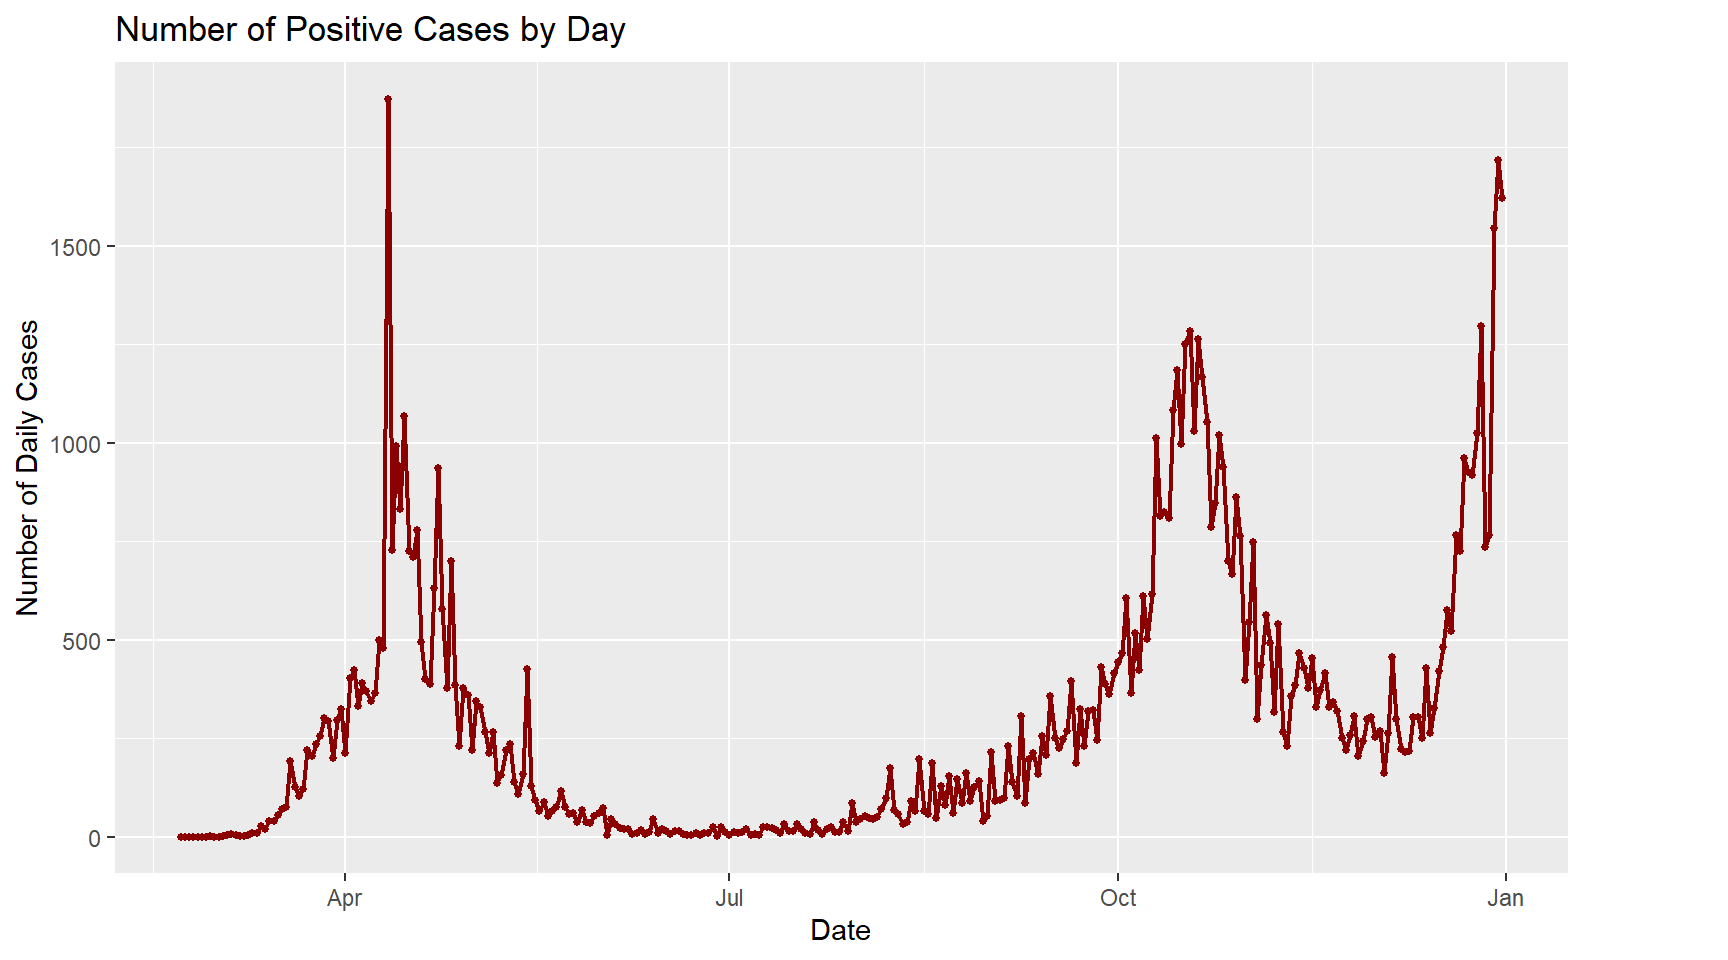
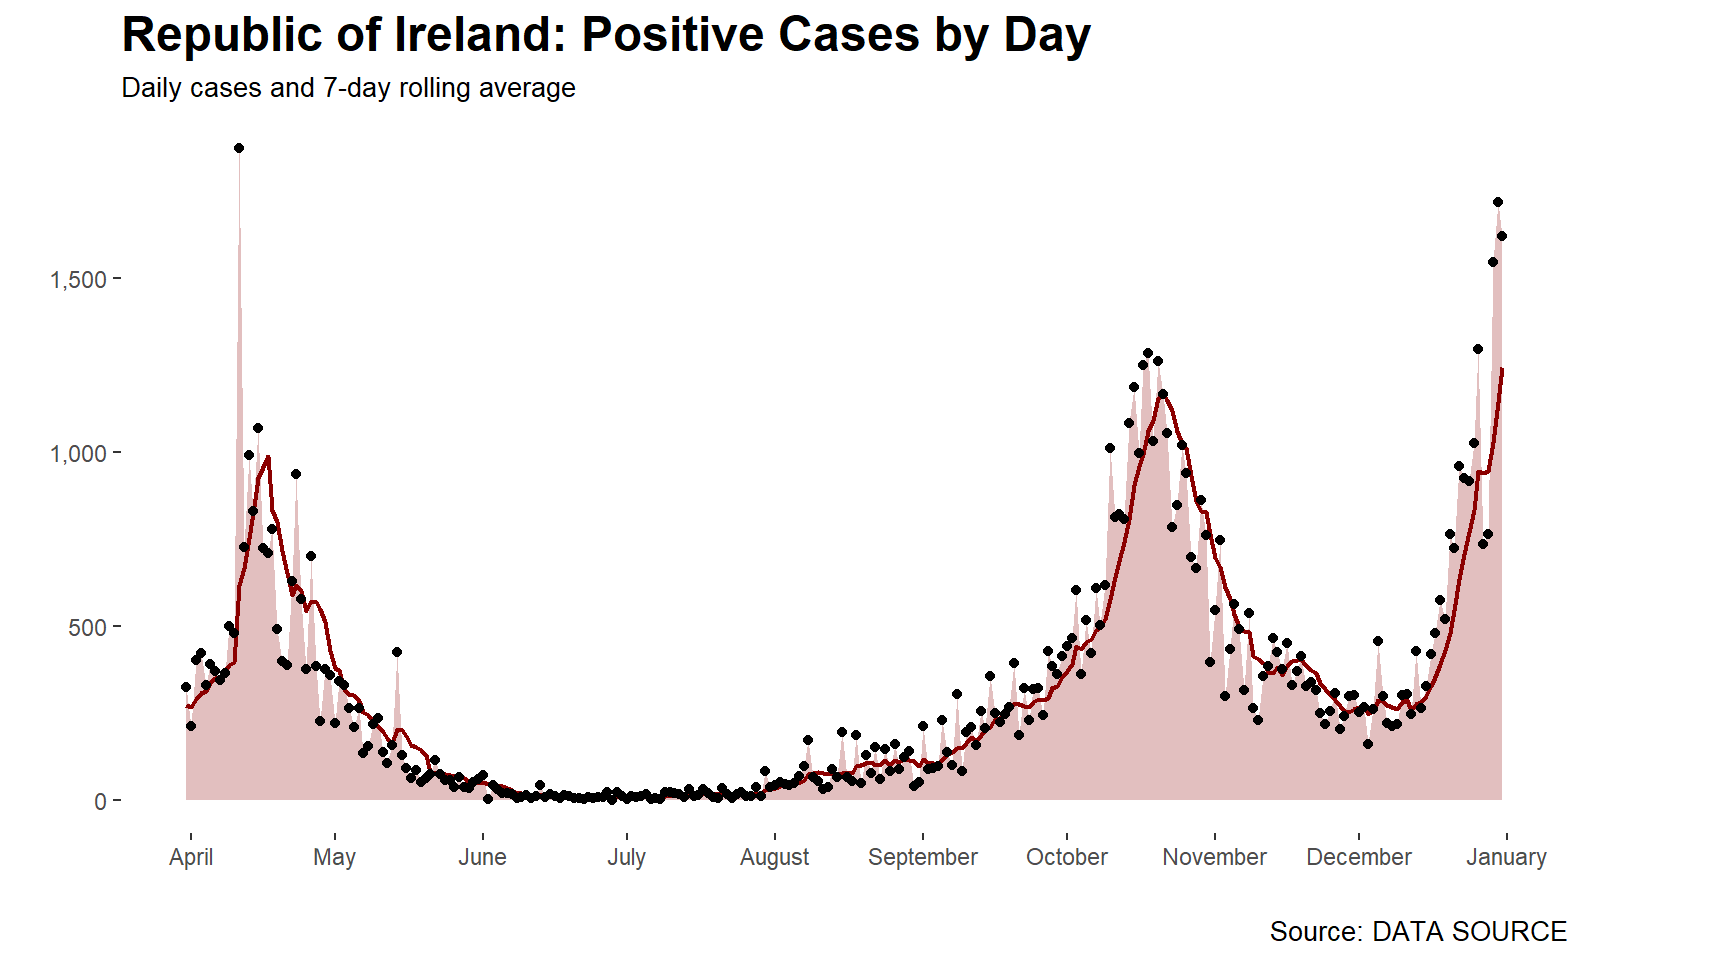
Updated births post

diff --git a/posts/2021-01-01-covid-animations-r/index.html b/posts/2021-01-01-covid-animations-r/index.html
@@ -88,7 +88,7 @@
 <p>R provides a very flexible way to create animated plots using a combination of the <code>ggplot2</code> and the <code>gganimate</code> package.</p>
 <p>The following animated plots leverage data from the <a href="https://covid19datahub.io/index.html">Covid19 Data Hub</a> to created animated visualisations of the Covid-19 incidence rates in Ireland.</p>
 <p>The first plots visualise the time series for the number of cases in the Republic if Ireland over 2020 while the second tracks the 7 day incidence rate on a per county basis.</p>
-<p><img src="../../post/2021-01-01-covid-animations-r/line_plot_animation.gif" /></p>
+<p><img src="images/line_plot_animation.gif" width="800" /></p>
 <p><img src="../../post/2021-01-01-covid-animations-r/county_barplot_animation.gif" /></p>
 <p><img src="../../post/2021-01-01-covid-animations-r/choropleth-ireland-covid-counties.gif" /></p>
 <p>Although the code to generate the plots looks complex, it’s actually relatively straight forward to animate them - the real work is in summarizing the data and laying out the plots in the correct format.</p>
@@ -119,7 +119,7 @@ library(zoo)</code></pre>
 <p>Once the required data fields have been added, I have removed unnecessary fields from the data source. This is an optional step, but having a smaller dataframe will decrease the processing time required to create the animated plot.</p>
 <pre class="r"><code>ire_agg &lt;- covid19(country=&#39;IE&#39;,
                         level=1,
-                        start=&#39;2020-02-22&#39;,
+                        start=&#39;2020-03-01&#39;,
                         end=&#39;2020-12-31&#39;,
                         raw=FALSE,
                         verbose=FALSE)
@@ -154,14 +154,24 @@ drops &lt;- c(&quot;vaccines&quot;,&quot;tests&quot;, &quot;recovered&quot;, &qu
 ire_agg &lt;- ire_agg[ , !(names(ire_agg) %in% drops)]</code></pre>
 <p>Once, we have created the base data, the following code produces the plot that will form the basis of the visualisation:</p>
 <pre class="r"><code>line_plot &lt;- ire_agg %&gt;%
-              ggplot(aes(x=date, y=confirmed_delta)) +
-              geom_line(color=&#39;red4&#39;, size=0.8) +
-              geom_point(size = 1, color=&#39;red4&#39;) + 
+             filter(date &gt;= &#39;2020-03-31&#39;) %&gt;%
+              ggplot() +
+              geom_line(aes(x=date, y=confirmed_7day), color=&#39;red4&#39;, size=0.8) +
+              geom_area(aes(x = date, y = confirmed_delta), fill = &quot;red4&quot;, alpha=0.25) +    
+              geom_point(aes(x=date, y=confirmed_delta), size = 1.5, color=&#39;black&#39;) + 
               theme(legend.position=&quot;bottom&quot;, plot.margin=margin(5.5, 60, 5.5, 5.5)) + #increasing margin
               scale_color_viridis_d(name=&quot;Method of Discovery&quot;) +
-              labs(title = &quot;Number of Positive Cases by Day&quot;) +
-              ylab(&quot;Number of Daily Cases&quot;) +
-              xlab(&quot;Date&quot;)
+              scale_y_continuous(labels = scales::comma) + 
+              labs(title = &quot;Republic of Ireland: Positive Cases by Day&quot;,
+                   x = &quot;&quot;,
+                   y = &quot;&quot;,
+                   subtitle = &quot;Daily cases and 7-day rolling average&quot;,
+                   caption = &quot;Source: DATA SOURCE&quot;) +
+              scale_x_date(date_breaks=&quot;1 month&quot;, date_labels=&#39;%B&#39;) +
+              theme(plot.title = element_text(face = &quot;bold&quot;, size = 18),
+                   plot.caption = element_text(size = 10),
+                   plot.subtitle = element_text(size = 10),
+                   panel.background = element_blank())
 
 # Viewing the plot
 line_plot</code></pre>
@@ -169,11 +179,13 @@ line_plot</code></pre>
 <p>The following code then takes the base plot and animates it over time. In order to animate the plot the <code>gganimate</code> package is used. The code <code>transition_reveal(date)</code> tells R to use the <code>date</code> field as the basis of our plot animation.</p>
 <pre class="r"><code>line_plot_animation &lt;- animate(line_plot + transition_reveal(date),
                                renderer = gifski_renderer(loop = T),
-                               height=350,
-                               width=700)
+                               width = 800,
+                               height = 400,
+                               nframes=200)
 
 # Saving the plot output
-#anim_save(&quot;line_plot_animation.gif&quot;, line_plot_animation)</code></pre>
+anim_save(&quot;line_plot_animation.gif&quot;, line_plot_animation)
+line_plot_animation</code></pre>
 <p><img src="../../post/2021-01-01-covid-animations-r/line_plot_animation.gif" /></p>
 </div>
 <div id="county-level-data" class="section level2">
@@ -341,19 +353,6 @@ anim_save(&quot;choropleth_covid_ire.gif&quot;, plot_output)</code></pre>
 
 
     
-<script type="application/javascript">
-var doNotTrack = false;
-if (!doNotTrack) {
-	(function(i,s,o,g,r,a,m){i['GoogleAnalyticsObject']=r;i[r]=i[r]||function(){
-	(i[r].q=i[r].q||[]).push(arguments)},i[r].l=1*new Date();a=s.createElement(o),
-	m=s.getElementsByTagName(o)[0];a.async=1;a.src=g;m.parentNode.insertBefore(a,m)
-	})(window,document,'script','https://www.google-analytics.com/analytics.js','ga');
-	ga('create', 'UA-173965746-1', 'auto');
-	
-	ga('send', 'pageview');
-}
-</script>
-
   </body>
 </html>
 

diff --git a/bookshelf/index.html b/bookshelf/index.html
@@ -162,19 +162,6 @@ Great book on memory training and how we can (and can&rsquo;t) remember where we
     
 
     
-<script type="application/javascript">
-var doNotTrack = false;
-if (!doNotTrack) {
-	(function(i,s,o,g,r,a,m){i['GoogleAnalyticsObject']=r;i[r]=i[r]||function(){
-	(i[r].q=i[r].q||[]).push(arguments)},i[r].l=1*new Date();a=s.createElement(o),
-	m=s.getElementsByTagName(o)[0];a.async=1;a.src=g;m.parentNode.insertBefore(a,m)
-	})(window,document,'script','https://www.google-analytics.com/analytics.js','ga');
-	ga('create', 'UA-173965746-1', 'auto');
-	
-	ga('send', 'pageview');
-}
-</script>
-
   </body>
 </html>
 

diff --git a/posts/2021-01-17-mapping-parler-uk-ire/index.html b/posts/2021-01-17-mapping-parler-uk-ire/index.html
@@ -282,19 +282,6 @@ map + coord_sf(ylim=c(51.4, 51.6), xlim=c(-0.25, +0.1)) +
 
 
     
-<script type="application/javascript">
-var doNotTrack = false;
-if (!doNotTrack) {
-	(function(i,s,o,g,r,a,m){i['GoogleAnalyticsObject']=r;i[r]=i[r]||function(){
-	(i[r].q=i[r].q||[]).push(arguments)},i[r].l=1*new Date();a=s.createElement(o),
-	m=s.getElementsByTagName(o)[0];a.async=1;a.src=g;m.parentNode.insertBefore(a,m)
-	})(window,document,'script','https://www.google-analytics.com/analytics.js','ga');
-	ga('create', 'UA-173965746-1', 'auto');
-	
-	ga('send', 'pageview');
-}
-</script>
-
   </body>
 </html>
 

diff --git a/posts/2020-08-01-shapefiles-r/index.html b/posts/2020-08-01-shapefiles-r/index.html
@@ -230,19 +230,6 @@ p1  </code></pre>
 
 
     
-<script type="application/javascript">
-var doNotTrack = false;
-if (!doNotTrack) {
-	(function(i,s,o,g,r,a,m){i['GoogleAnalyticsObject']=r;i[r]=i[r]||function(){
-	(i[r].q=i[r].q||[]).push(arguments)},i[r].l=1*new Date();a=s.createElement(o),
-	m=s.getElementsByTagName(o)[0];a.async=1;a.src=g;m.parentNode.insertBefore(a,m)
-	})(window,document,'script','https://www.google-analytics.com/analytics.js','ga');
-	ga('create', 'UA-173965746-1', 'auto');
-	
-	ga('send', 'pageview');
-}
-</script>
-
   </body>
 </html>
 

diff --git a/posts/2020-09-26-visualizing-strava-activities-with-r/index.html b/posts/2020-09-26-visualizing-strava-activities-with-r/index.html
@@ -245,19 +245,6 @@ p7</code></pre>
 
 
     
-<script type="application/javascript">
-var doNotTrack = false;
-if (!doNotTrack) {
-	(function(i,s,o,g,r,a,m){i['GoogleAnalyticsObject']=r;i[r]=i[r]||function(){
-	(i[r].q=i[r].q||[]).push(arguments)},i[r].l=1*new Date();a=s.createElement(o),
-	m=s.getElementsByTagName(o)[0];a.async=1;a.src=g;m.parentNode.insertBefore(a,m)
-	})(window,document,'script','https://www.google-analytics.com/analytics.js','ga');
-	ga('create', 'UA-173965746-1', 'auto');
-	
-	ga('send', 'pageview');
-}
-</script>
-
   </body>
 </html>
 

diff --git a/posts/2021-01-21-births-visualisation/index.html b/posts/2021-01-21-births-visualisation/index.html
@@ -328,19 +328,6 @@ p</code></pre>
 
 
     
-<script type="application/javascript">
-var doNotTrack = false;
-if (!doNotTrack) {
-	(function(i,s,o,g,r,a,m){i['GoogleAnalyticsObject']=r;i[r]=i[r]||function(){
-	(i[r].q=i[r].q||[]).push(arguments)},i[r].l=1*new Date();a=s.createElement(o),
-	m=s.getElementsByTagName(o)[0];a.async=1;a.src=g;m.parentNode.insertBefore(a,m)
-	})(window,document,'script','https://www.google-analytics.com/analytics.js','ga');
-	ga('create', 'UA-173965746-1', 'auto');
-	
-	ga('send', 'pageview');
-}
-</script>
-
   </body>
 </html>
 

diff --git a/heatmaps/index.html b/heatmaps/index.html
@@ -101,19 +101,6 @@
     
 
     
-<script type="application/javascript">
-var doNotTrack = false;
-if (!doNotTrack) {
-	(function(i,s,o,g,r,a,m){i['GoogleAnalyticsObject']=r;i[r]=i[r]||function(){
-	(i[r].q=i[r].q||[]).push(arguments)},i[r].l=1*new Date();a=s.createElement(o),
-	m=s.getElementsByTagName(o)[0];a.async=1;a.src=g;m.parentNode.insertBefore(a,m)
-	})(window,document,'script','https://www.google-analytics.com/analytics.js','ga');
-	ga('create', 'UA-173965746-1', 'auto');
-	
-	ga('send', 'pageview');
-}
-</script>
-
   </body>
 </html>
 

diff --git a/index.html b/index.html
@@ -163,19 +163,6 @@
     
 
     
-<script type="application/javascript">
-var doNotTrack = false;
-if (!doNotTrack) {
-	(function(i,s,o,g,r,a,m){i['GoogleAnalyticsObject']=r;i[r]=i[r]||function(){
-	(i[r].q=i[r].q||[]).push(arguments)},i[r].l=1*new Date();a=s.createElement(o),
-	m=s.getElementsByTagName(o)[0];a.async=1;a.src=g;m.parentNode.insertBefore(a,m)
-	})(window,document,'script','https://www.google-analytics.com/analytics.js','ga');
-	ga('create', 'UA-173965746-1', 'auto');
-	
-	ga('send', 'pageview');
-}
-</script>
-
   </body>
 </html>
 

diff --git a/post/index.html b/post/index.html
@@ -160,19 +160,6 @@
     
 
     
-<script type="application/javascript">
-var doNotTrack = false;
-if (!doNotTrack) {
-	(function(i,s,o,g,r,a,m){i['GoogleAnalyticsObject']=r;i[r]=i[r]||function(){
-	(i[r].q=i[r].q||[]).push(arguments)},i[r].l=1*new Date();a=s.createElement(o),
-	m=s.getElementsByTagName(o)[0];a.async=1;a.src=g;m.parentNode.insertBefore(a,m)
-	})(window,document,'script','https://www.google-analytics.com/analytics.js','ga');
-	ga('create', 'UA-173965746-1', 'auto');
-	
-	ga('send', 'pageview');
-}
-</script>
-
   </body>
 </html>
 

diff --git a/about/index.html b/about/index.html
@@ -96,19 +96,6 @@
     
 
     
-<script type="application/javascript">
-var doNotTrack = false;
-if (!doNotTrack) {
-	(function(i,s,o,g,r,a,m){i['GoogleAnalyticsObject']=r;i[r]=i[r]||function(){
-	(i[r].q=i[r].q||[]).push(arguments)},i[r].l=1*new Date();a=s.createElement(o),
-	m=s.getElementsByTagName(o)[0];a.async=1;a.src=g;m.parentNode.insertBefore(a,m)
-	})(window,document,'script','https://www.google-analytics.com/analytics.js','ga');
-	ga('create', 'UA-173965746-1', 'auto');
-	
-	ga('send', 'pageview');
-}
-</script>
-
   </body>
 </html>
 

diff --git a/categories/index.html b/categories/index.html
@@ -87,19 +87,6 @@
     
 
     
-<script type="application/javascript">
-var doNotTrack = false;
-if (!doNotTrack) {
-	(function(i,s,o,g,r,a,m){i['GoogleAnalyticsObject']=r;i[r]=i[r]||function(){
-	(i[r].q=i[r].q||[]).push(arguments)},i[r].l=1*new Date();a=s.createElement(o),
-	m=s.getElementsByTagName(o)[0];a.async=1;a.src=g;m.parentNode.insertBefore(a,m)
-	})(window,document,'script','https://www.google-analytics.com/analytics.js','ga');
-	ga('create', 'UA-173965746-1', 'auto');
-	
-	ga('send', 'pageview');
-}
-</script>
-
   </body>
 </html>
 

diff --git a/tags/index.html b/tags/index.html
@@ -87,19 +87,6 @@
     
 
     
-<script type="application/javascript">
-var doNotTrack = false;
-if (!doNotTrack) {
-	(function(i,s,o,g,r,a,m){i['GoogleAnalyticsObject']=r;i[r]=i[r]||function(){
-	(i[r].q=i[r].q||[]).push(arguments)},i[r].l=1*new Date();a=s.createElement(o),
-	m=s.getElementsByTagName(o)[0];a.async=1;a.src=g;m.parentNode.insertBefore(a,m)
-	})(window,document,'script','https://www.google-analytics.com/analytics.js','ga');
-	ga('create', 'UA-173965746-1', 'auto');
-	
-	ga('send', 'pageview');
-}
-</script>
-
   </body>
 </html>
 
